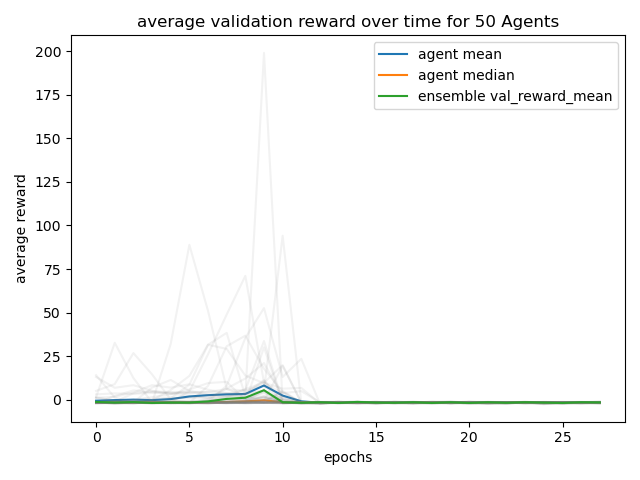
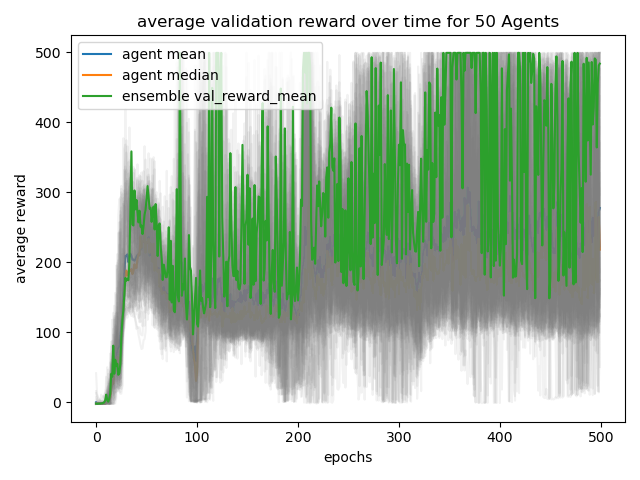
experiment files

diff --git a/research_master/q_learning/CartPole/learners/exp_q_22/factory.py b/research_master/q_learning/CartPole/learners/exp_q_22/factory.py
@@ -2,6 +2,7 @@ import torch
 import numpy as np
 from pymatch.ReinforcementLearning.loss import REINFORCELoss
 from pymatch.ReinforcementLearning.memory import MemoryUpdater
+from models.DQN1 import Model
 from pymatch.ReinforcementLearning.torch_gym import TorchGym, CartPole
 import pymatch.ReinforcementLearning.callback as rcb
 import pymatch.DeepLearning.callback as cb
@@ -9,14 +10,13 @@ import pymatch.ReinforcementLearning.learner as pg
 import pymatch.ReinforcementLearning.selection_policy as sp
 
 
-def factory(Model, core, model_args, env_args, optim_args, memory_args, learner_args, name):
-    model = Model(core, **model_args)
+def factory(Model, model_args, env_args, optim_args, memory_args, learner_args, crit_args):
+    model = Model(**model_args)
     env = CartPole(**env_args)
     memory_updater = MemoryUpdater(**memory_args)
 
     optim = torch.optim.SGD(model.parameters(), **optim_args)
-    crit = torch.nn.MSELoss()
-    learner_args['name'] = name
+    crit = torch.nn.MSELoss(**crit_args)
 
     return pg.QLearner(env=env,
                        model=model,
@@ -24,7 +24,15 @@ def factory(Model, core, model_args, env_args, optim_args, memory_args, learner_
                        memory_updater=memory_updater,
                        crit=crit,
                        action_selector=sp.QActionSelection(temperature=.3),
+                       # action_selector=pg.EpsilonGreedyActionSelection(action_space=np.arange(env.action_space.n),
+                       #                                                 epsilon=.95),
                        callbacks=[
+                           cb.Checkpointer(),
                            rcb.EnvironmentEvaluator(env=env, n_evaluations=10, frequency=1),
+                           # rcb.AgentVisualizer(env=env, frequency=5),
+                           cb.MetricPlotter(frequency=1, metric='rewards', smoothing_window=100),
+                           cb.MetricPlotter(frequency=1, metric='train_losses', smoothing_window=100),
+                           cb.MetricPlotter(frequency=1, metric='avg_reward', smoothing_window=5),
+                           cb.MetricPlotter(frequency=5, metric='val_reward', x='val_epoch', smoothing_window=5),
                        ],
                        **learner_args)

diff --git a/research_master/DDQN/CartPole/learners/exp_ddqn_1/factory.py b/research_master/DDQN/CartPole/learners/exp_ddqn_1/factory.py
@@ -1,0 +1,33 @@
+import torch
+from pymatch.ReinforcementLearning.memory import MemoryUpdater
+from pymatch.ReinforcementLearning.torch_gym import CartPole
+import pymatch.ReinforcementLearning.callback as rcb
+import pymatch.DeepLearning.callback as cb
+import pymatch.ReinforcementLearning.learner as learners
+import pymatch.ReinforcementLearning.selection_policy as sp
+
+
+def factory(Model, model_args, env_args, optim_args, memory_args, learner_args, crit_args):
+    model = Model(**model_args)
+    env = CartPole(**env_args)
+    memory_updater = MemoryUpdater(**memory_args)
+
+    optim = torch.optim.SGD(model.parameters(), **optim_args)
+    crit = torch.nn.MSELoss(**crit_args)
+
+    return learners.DoubleQLearner(env=env,
+                                   model=model,
+                                   optimizer=optim,
+                                   memory_updater=memory_updater,
+                                   crit=crit,
+                                   action_selector=sp.QActionSelection(temperature=.3),
+                                   callbacks=[
+                                       cb.Checkpointer(),
+                                       rcb.EnvironmentEvaluator(env=env, n_evaluations=10, frequency=1),
+                                       cb.MetricPlotter(frequency=1, metric='rewards', smoothing_window=100),
+                                       cb.MetricPlotter(frequency=1, metric='train_losses', smoothing_window=100),
+                                       cb.MetricPlotter(frequency=1, metric='avg_reward', smoothing_window=5),
+                                       cb.MetricPlotter(frequency=5, metric='val_reward', x='val_epoch',
+                                                        smoothing_window=5),
+                                   ],
+                                   **learner_args)

diff --git a/research_master/q_learning/CartPole/boosting/exp_q_21/factory.py b/research_master/q_learning/CartPole/boosting/exp_q_21/factory.py
@@ -9,12 +9,16 @@ import pymatch.ReinforcementLearning.learner as pg
 import pymatch.ReinforcementLearning.selection_policy as sp
 
 
-def factory(Model, core, model_args, env_args, optim_args, memory_args, learner_args, name):
+def factory(Model, core, model_args, env_args, optim_args, memory_args, learner_args, name, n_learner):
     model = Model(core, **model_args)
     env = CartPole(**env_args)
     memory_updater = MemoryUpdater(**memory_args)
 
-    optim = torch.optim.SGD(model.parameters(), **optim_args)
+    core_params, head_params = model.parameters_module()
+
+    optim = torch.optim.SGD([{'params': core_params,
+                              'lr': optim_args['lr']/n_learner},
+                             {'params': head_params}], **optim_args)
     crit = torch.nn.MSELoss()
     learner_args['name'] = name
 
@@ -28,3 +32,18 @@ def factory(Model, core, model_args, env_args, optim_args, memory_args, learner_
                            rcb.EnvironmentEvaluator(env=env, n_evaluations=10, frequency=1),
                        ],
                        **learner_args)
+
+# for param_group in optim.param_groups:
+#     print(param_group.keys())
+#
+# for i, p in enumerate(model.parameters()):
+#     print(i)
+#     if p is in list(core.parameters()):
+#         print(i)
+#
+# list(model.parameters())[1] is list(core.parameters())[1]
+#
+# core_params = [np for np in model.named_parameters() if np[0].split('.')[0] == 'core']
+# head_params = [np for np in model.named_parameters() if not np[0].split('.')[0] == 'core']
+
+

diff --git a/research_master/q_learning/CartPole/boosting/exp_q_21/model.py b/research_master/q_learning/CartPole/boosting/exp_q_21/model.py
@@ -1,0 +1,25 @@
+import torch
+import torch.nn as nn
+import torch.nn.functional as F
+
+
+class Model(nn.Module):
+
+    def __init__(self, core, out_nodes):
+        super(Model, self).__init__()
+        self.core = core
+        self.fc1 = nn.Linear(24, out_nodes)
+
+    def forward(self, x):
+        x = self.core(x)
+        x = self.fc1(x)
+        return x
+
+    def parameters_module(self):
+        core_params, head_params = [], []
+        for np in self.named_parameters():
+            if np[0].split('.')[0] == 'core':
+                core_params += [np[1]]
+            else:
+                head_params += [np[1]]
+        return core_params, head_params

diff --git a/research_master/q_learning/CartPole/learners/exp_q_22/model.py b/research_master/q_learning/CartPole/learners/exp_q_22/model.py
@@ -1,0 +1,24 @@
+import torch
+import torch.nn as nn
+import torch.nn.functional as F
+
+
+class Model(nn.Module):
+
+    def __init__(self, in_nodes, out_nodes):
+        super(Model, self).__init__()
+        self.fc1 = nn.Linear(in_nodes, 50)
+        self.do1 = nn.Dropout(.5)
+        self.fc2 = nn.Linear(50, 50)
+        self.do2 = nn.Dropout(.5)
+        self.fc3 = nn.Linear(50, out_nodes)
+
+    def forward(self, x):
+        x = self.fc1(x)
+        x = F.relu(x)
+        x = self.do1(x)
+        x = self.fc2(x)
+        x = F.relu(x)
+        x = self.do2(x)
+        x = self.fc3(x)
+        return x

diff --git a/research_master/DDQN/CartPole/learners/exp_ddqn_1/model.py b/research_master/DDQN/CartPole/learners/exp_ddqn_1/model.py
@@ -1,0 +1,19 @@
+import torch.nn as nn
+import torch.nn.functional as F
+
+
+class Model(nn.Module):
+
+    def __init__(self, in_nodes, out_nodes):
+        super(Model, self).__init__()
+        self.fc1 = nn.Linear(in_nodes, 24)
+        self.fc2 = nn.Linear(24, 24)
+        self.fc3 = nn.Linear(24, out_nodes)
+
+    def forward(self, x):
+        x = self.fc1(x)
+        x = F.relu(x)
+        x = self.fc2(x)
+        x = F.relu(x)
+        x = self.fc3(x)
+        return x

diff --git a/research_master/q_learning/CartPole/boosting/exp_q_21/core.py b/research_master/q_learning/CartPole/boosting/exp_q_21/core.py
@@ -1,0 +1,18 @@
+import torch
+import torch.nn as nn
+import torch.nn.functional as F
+
+
+class Core(nn.Module):
+
+    def __init__(self, in_nodes):
+        super(Core, self).__init__()
+        self.fc1 = nn.Linear(in_nodes, 24)
+        self.fc2 = nn.Linear(24, 24)
+
+    def forward(self, x):
+        x = self.fc1(x)
+        x = F.relu(x)
+        x = self.fc2(x)
+        x = F.relu(x)
+        return x
